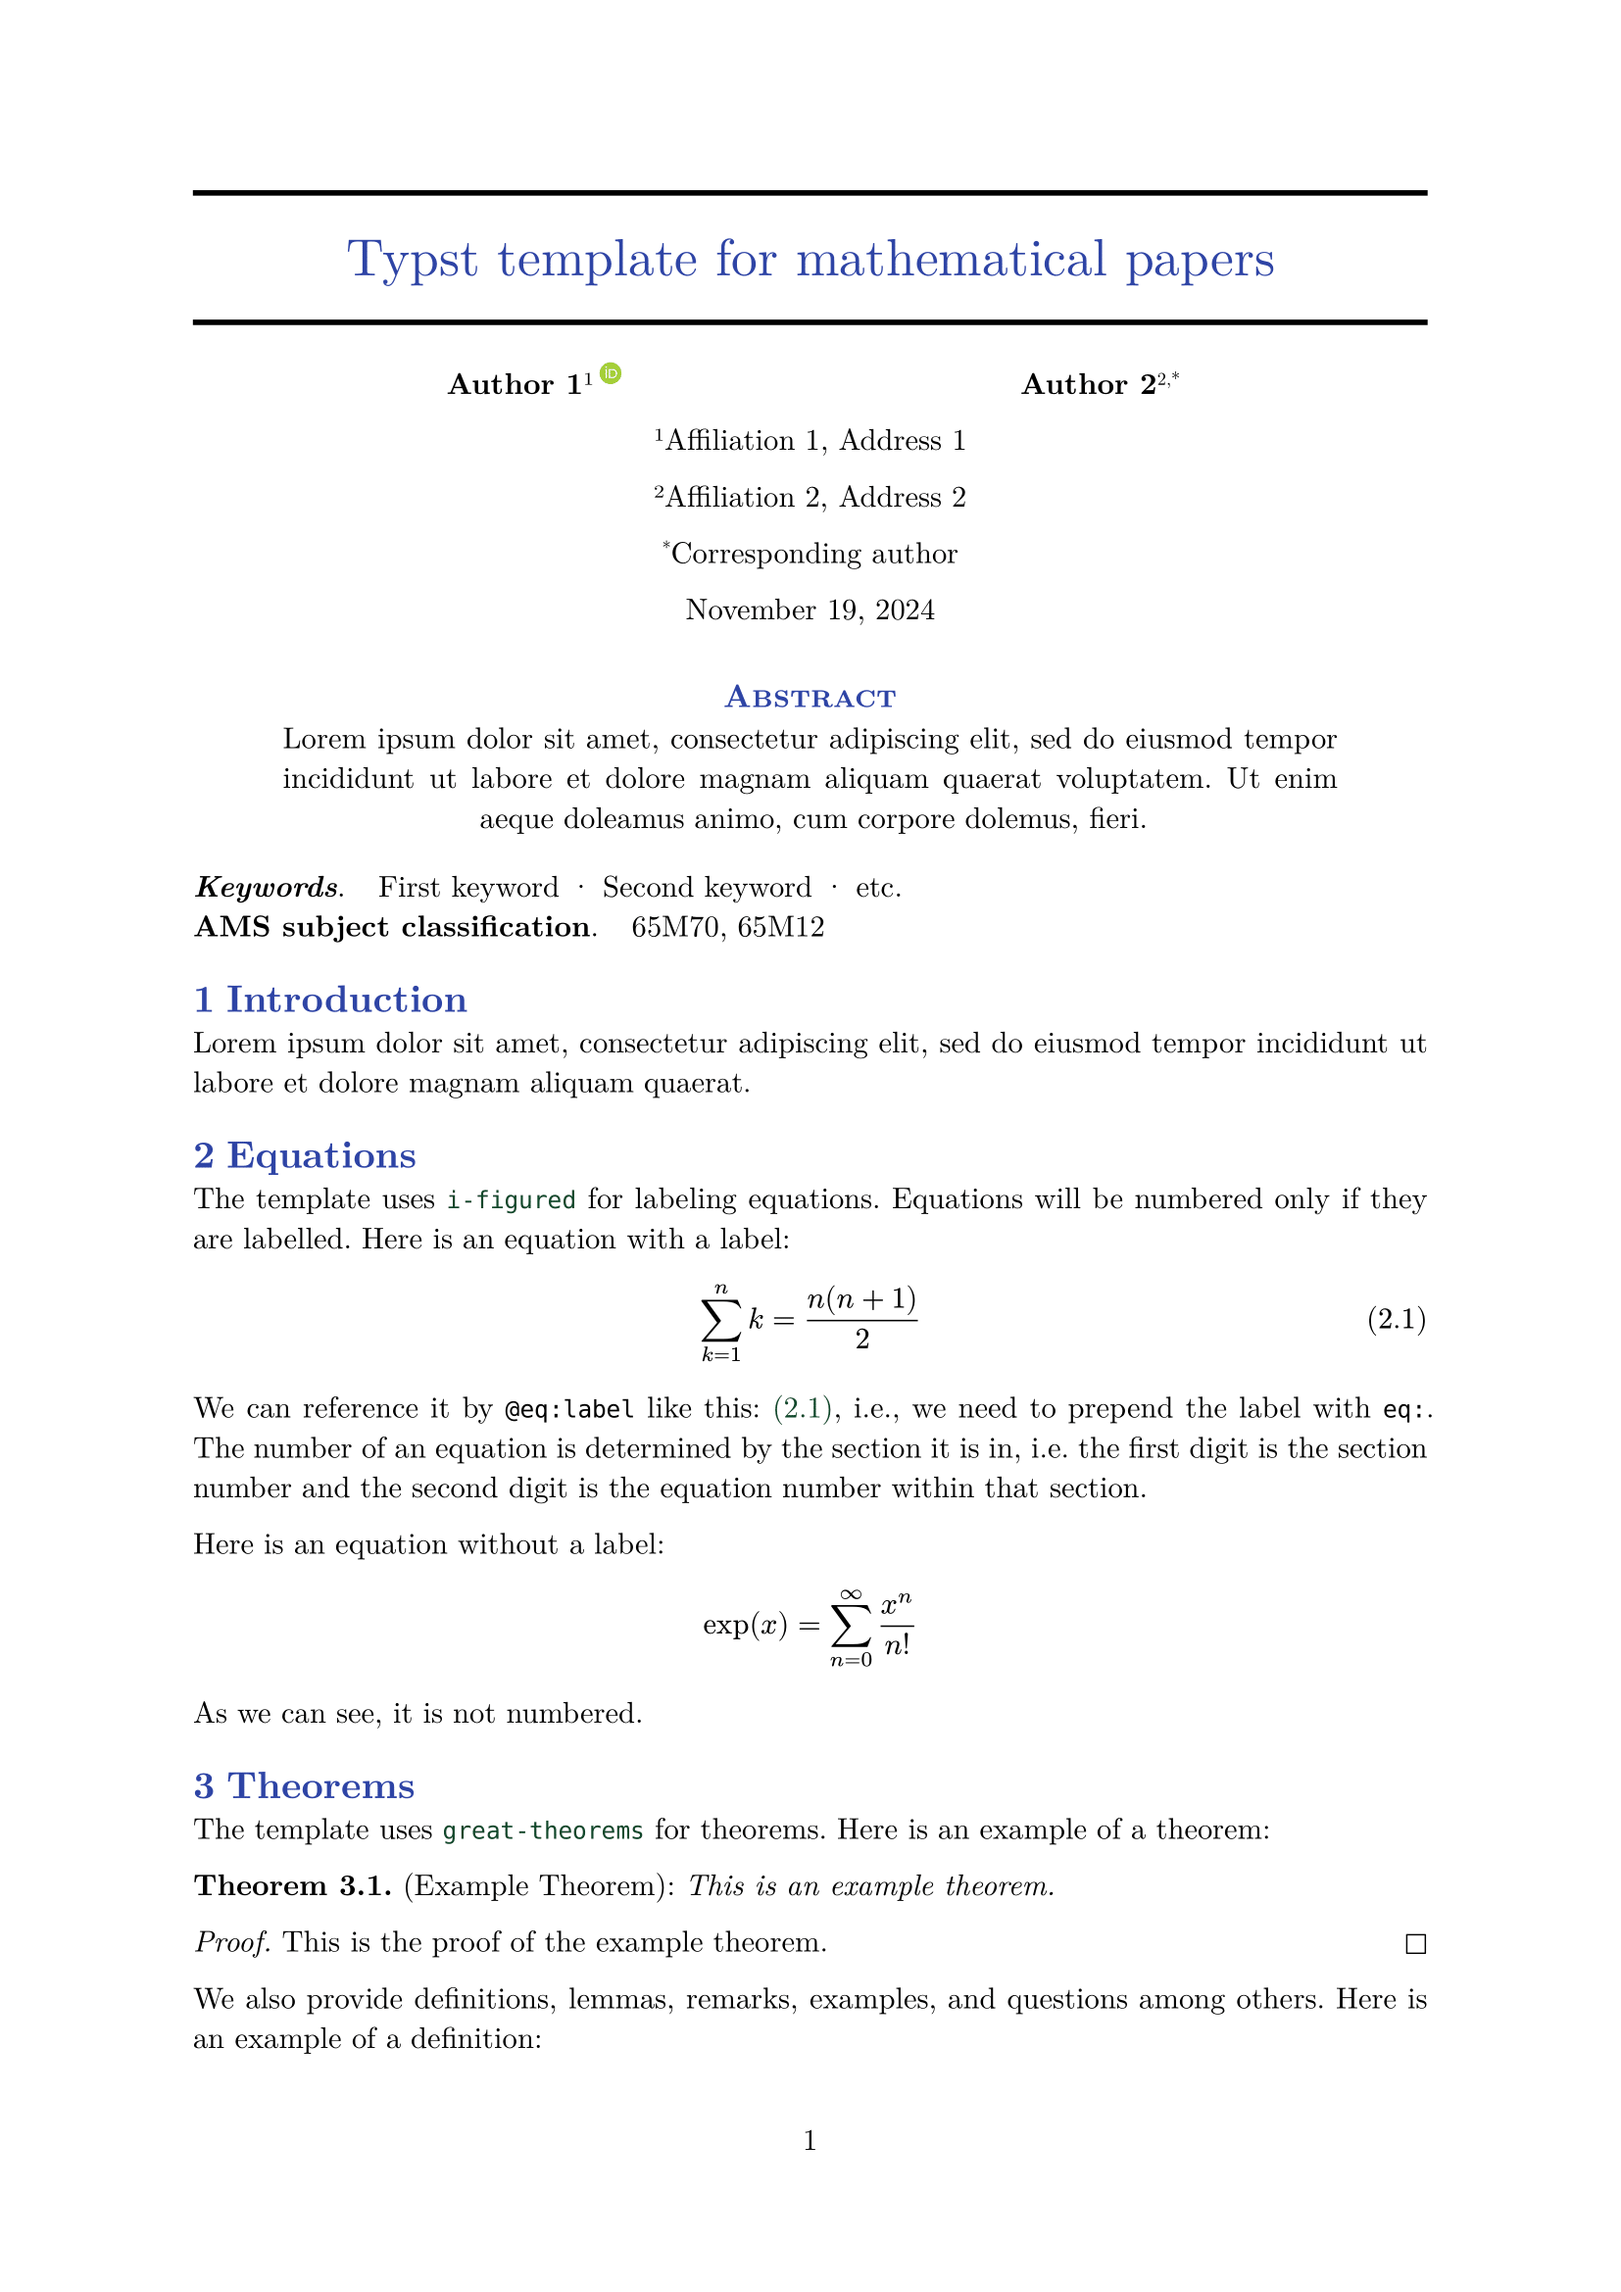
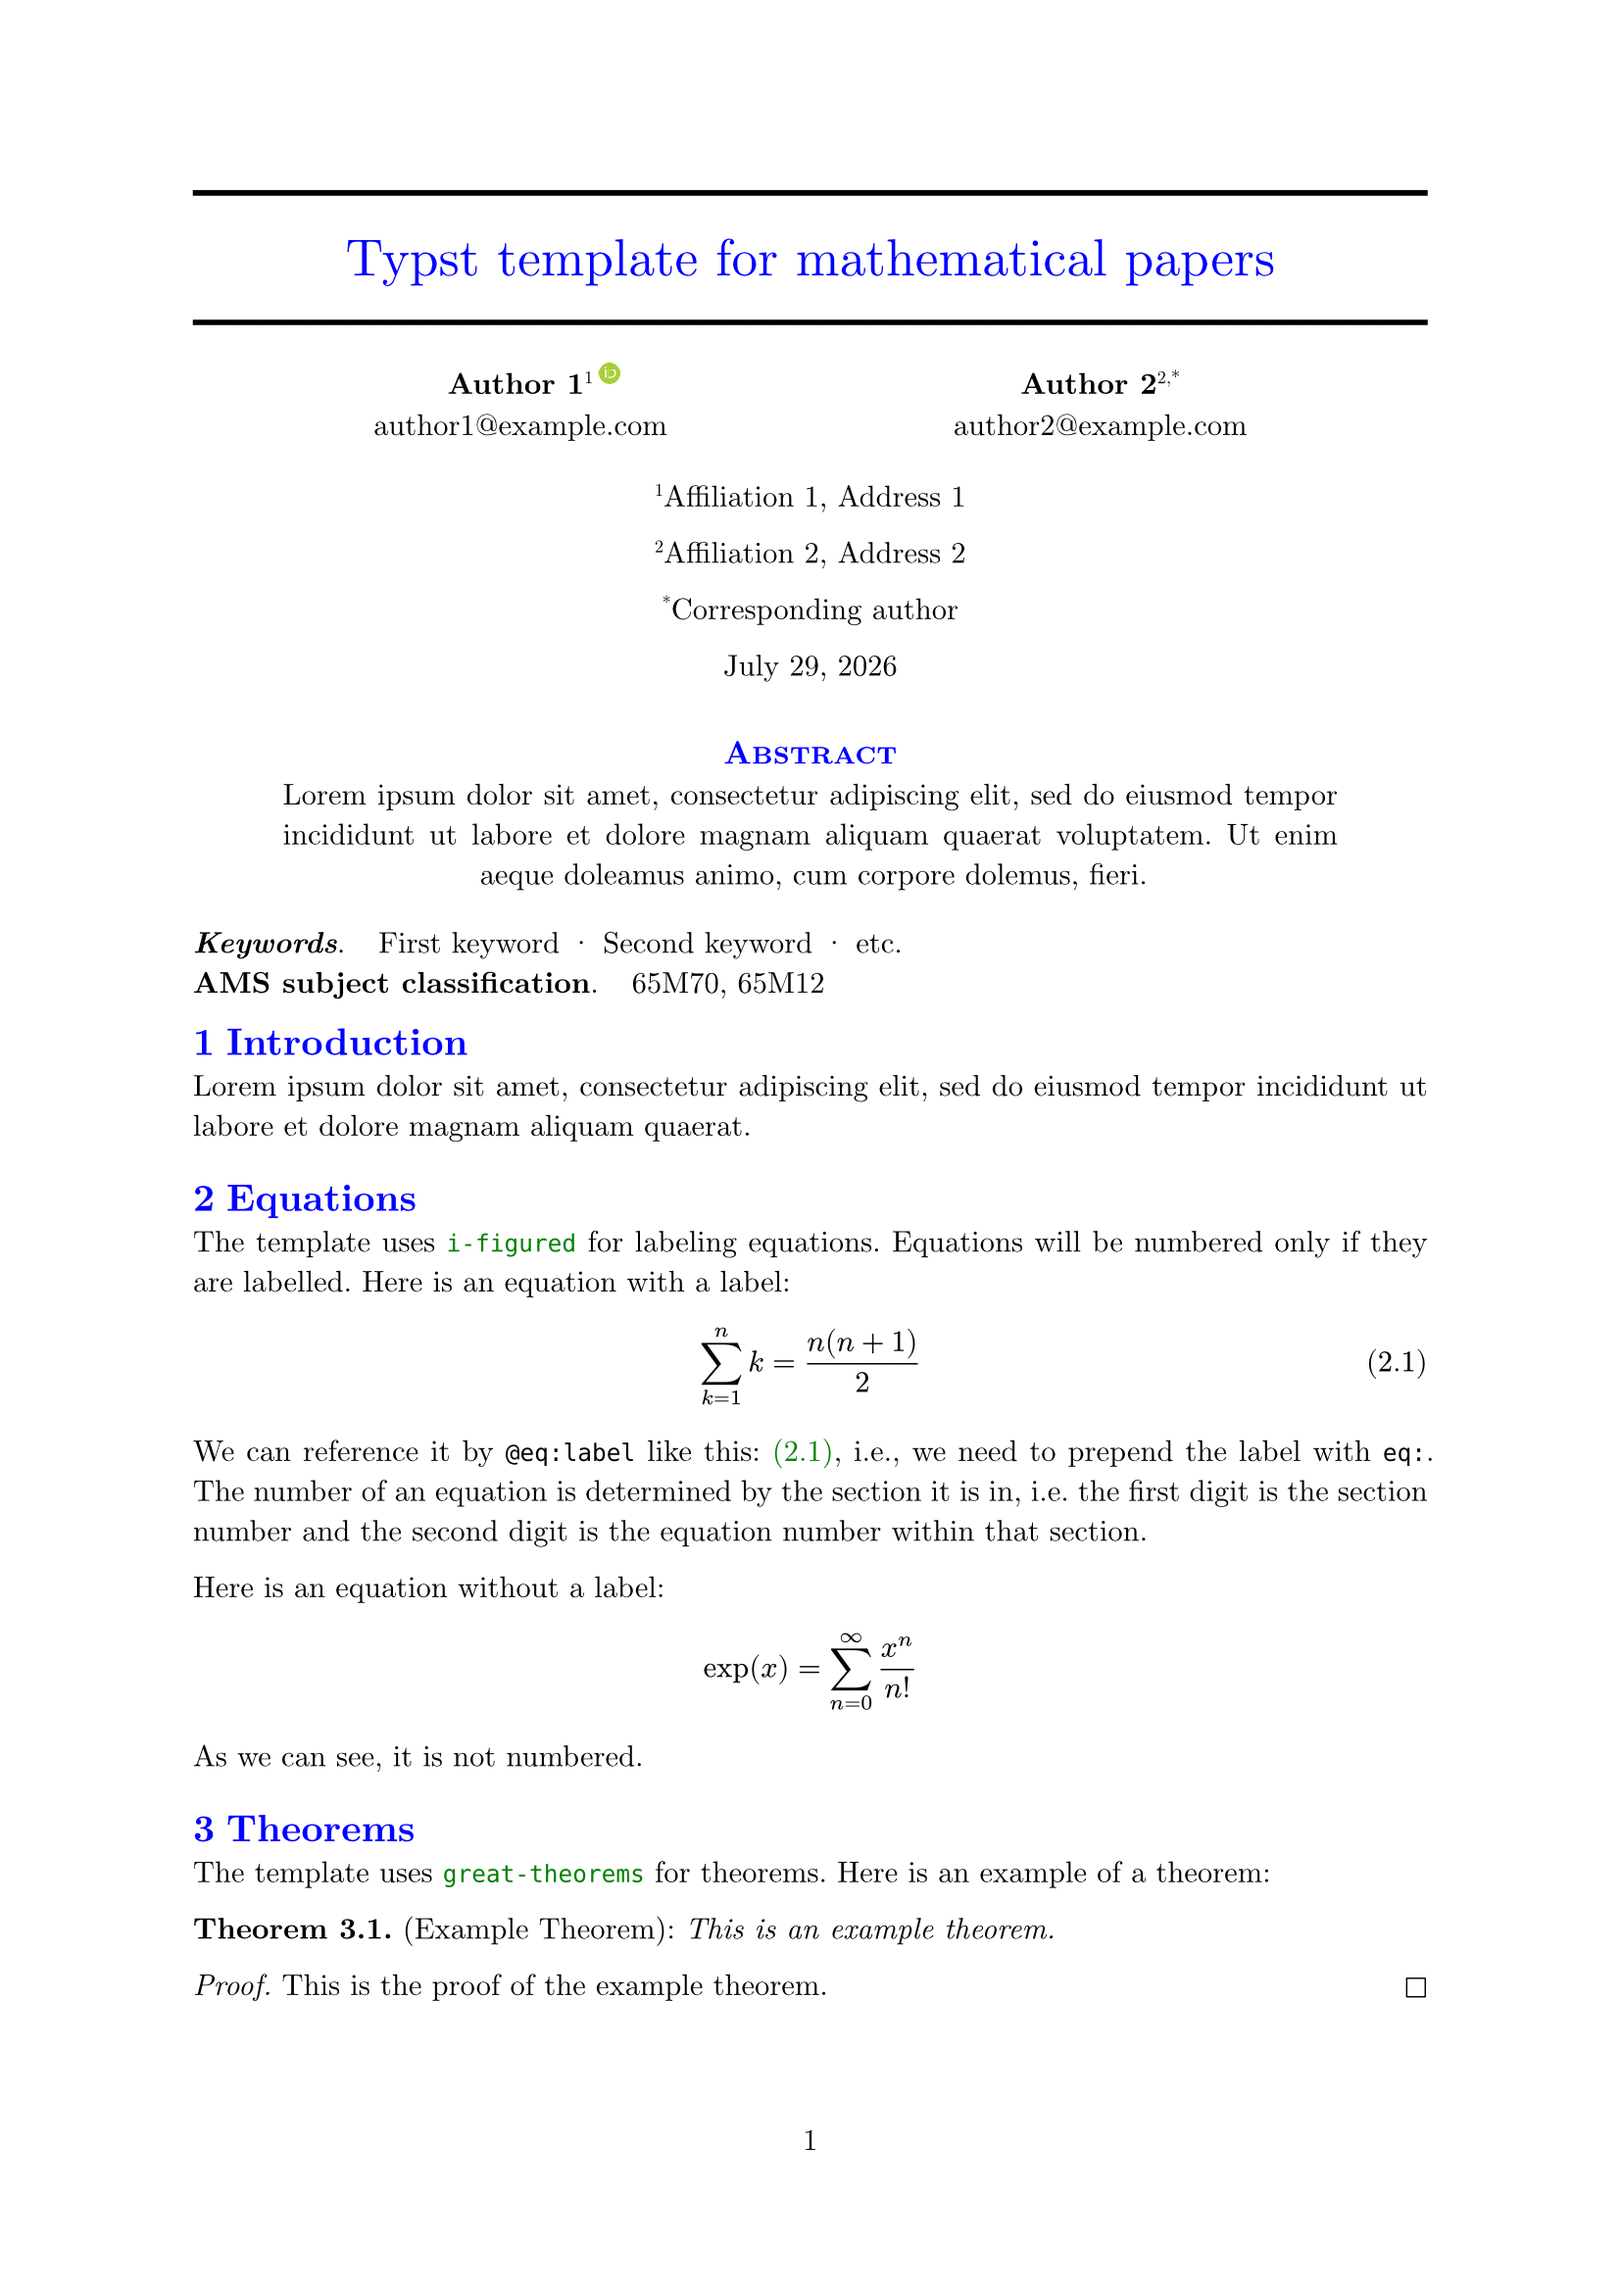
Add authors style option

diff --git a/README.md b/README.md
@@ -29,9 +29,14 @@ typst init @preview/clean-math-paper:0.2.7
   - `name`: Name of the author.
   - `affiliation-id`: The ID of the affiliation in `affiliations`, see below. Can also be left empty or consist of multiple IDs separated by commas (it does not need to match an `id` from the `affiliations` list).
   - optionally `orcid`: The [ORCID](https://orcid.org/) of the author. If provided, the author's name will be linked to their ORCID profile.
+  - optionally `email`: The email address of the author. If provided, it will be shown below the author's name as a `mailto:` link.
 - `affiliations`: List of affiliations of the authors. Each entry of the list is a dictionary with the following keys:
   - `id`: ID of the affiliation, which is used to link the authors to the affiliation, see above. Can also be left empty.
   - `name`: Name of the affiliation.
+- `authors-style`: How the authors and their affiliations are typeset. Default is `"shared"`.
+  - `"shared"`: The authors are printed next to each other and all affiliations are listed below them, linked to the authors by superscripts.
+  - `"per-author"`: Every author is printed in their own column together with their own affiliations below their name, so no superscripts are used. The affiliations are looked up in the `affiliations` list via the `affiliation-id`s of the author; IDs without a matching affiliation are ignored.
+- `authors-per-row`: Maximum number of authors printed next to each other. Further authors are printed in a new row. Default is `3`.
 - `date`: Date of the paper.
 - `abstract`: Abstract of the paper. If not provided, nothing will be shown.
 - `keywords`: List of keywords of the paper. If not provided, nothing will be shown.
